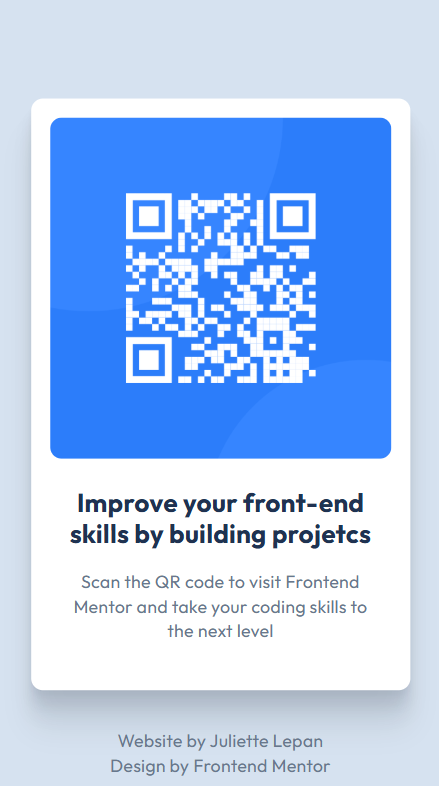
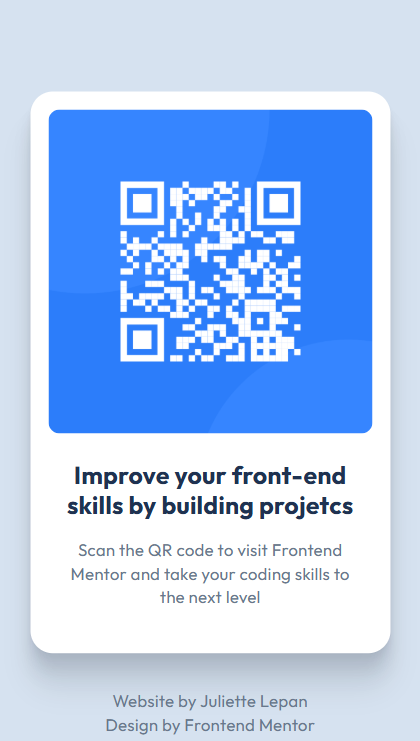
Update

diff --git a/css/index.css b/css/index.css
@@ -29,10 +29,6 @@ body {
     line-height: 1.2;
 }
 
-a {
-    transition: text-decoration 0.3s
-}
-
 a:hover {
     text-decoration: underline;
 }
